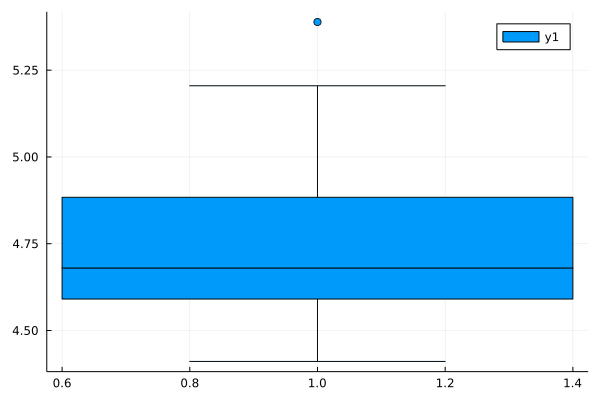
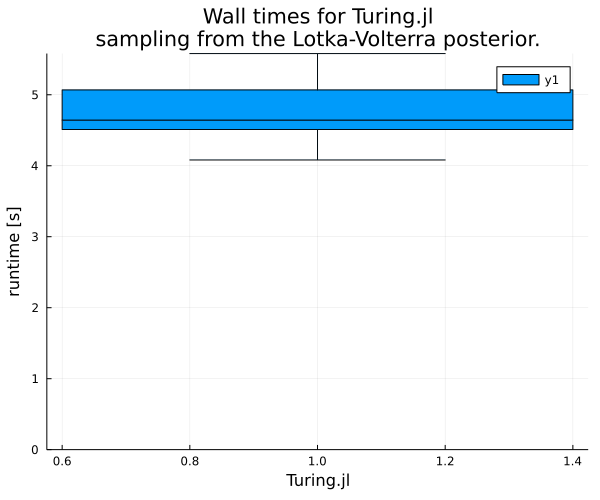
added some labels

diff --git a/py/lotka.py b/py/lotka.py
@@ -8,12 +8,13 @@ model = CmdStanModel(stan_file="stan/lotka.stan")
 no_repetitions = 20
 runtimes = [0] * no_repetitions
 
-
 for i in range(no_repetitions):
     start = time.perf_counter()
     model.sample(data="data/lotka.json", adapt_delta=.65, chains=1, show_progress=False)
     runtimes[i] = time.perf_counter() - start
 
-print(runtimes)
-sns.boxenplot(y=runtimes)
-plt.savefig('figs/lotka_py.png')
+fig, ax = plt.subplots(1,1)
+fig.suptitle("Wall times for CmdStanPy sampling from the Lotka-Volterra posterior.")
+ax.set(xlabel="Stan", ylabel="runtime [s]", ylim=[0, max(runtimes)])
+sns.boxenplot(ax=ax, y=runtimes)
+fig.savefig('figs/lotka_py.png')

diff --git a/README.md b/README.md
@@ -4,7 +4,10 @@ A bad and incomplete comparison of Stan and Turing.jl for ODE models
 Sampling the same posterior as in https://benchmarks.sciml.ai/html/ParameterEstimation/DiffEqBayesLotkaVolterra.html
 
 * To run the python script: `poetry run python3 py/lotka.py`
-* To run the Julia notebook: `julia --project=. jl/init.jl`
+* To run the Julia notebook: `julia --project=./jl jl/init.jl`
 
 Should produce one figure each in the folder `figs` showing wall times,
 which is of course really uninteresting.
+
+Ideally, nobody would care about wall times, but I'm not 100% sure what
+the easiest way would be to compare estimated ESS/s, so for now we have this.
